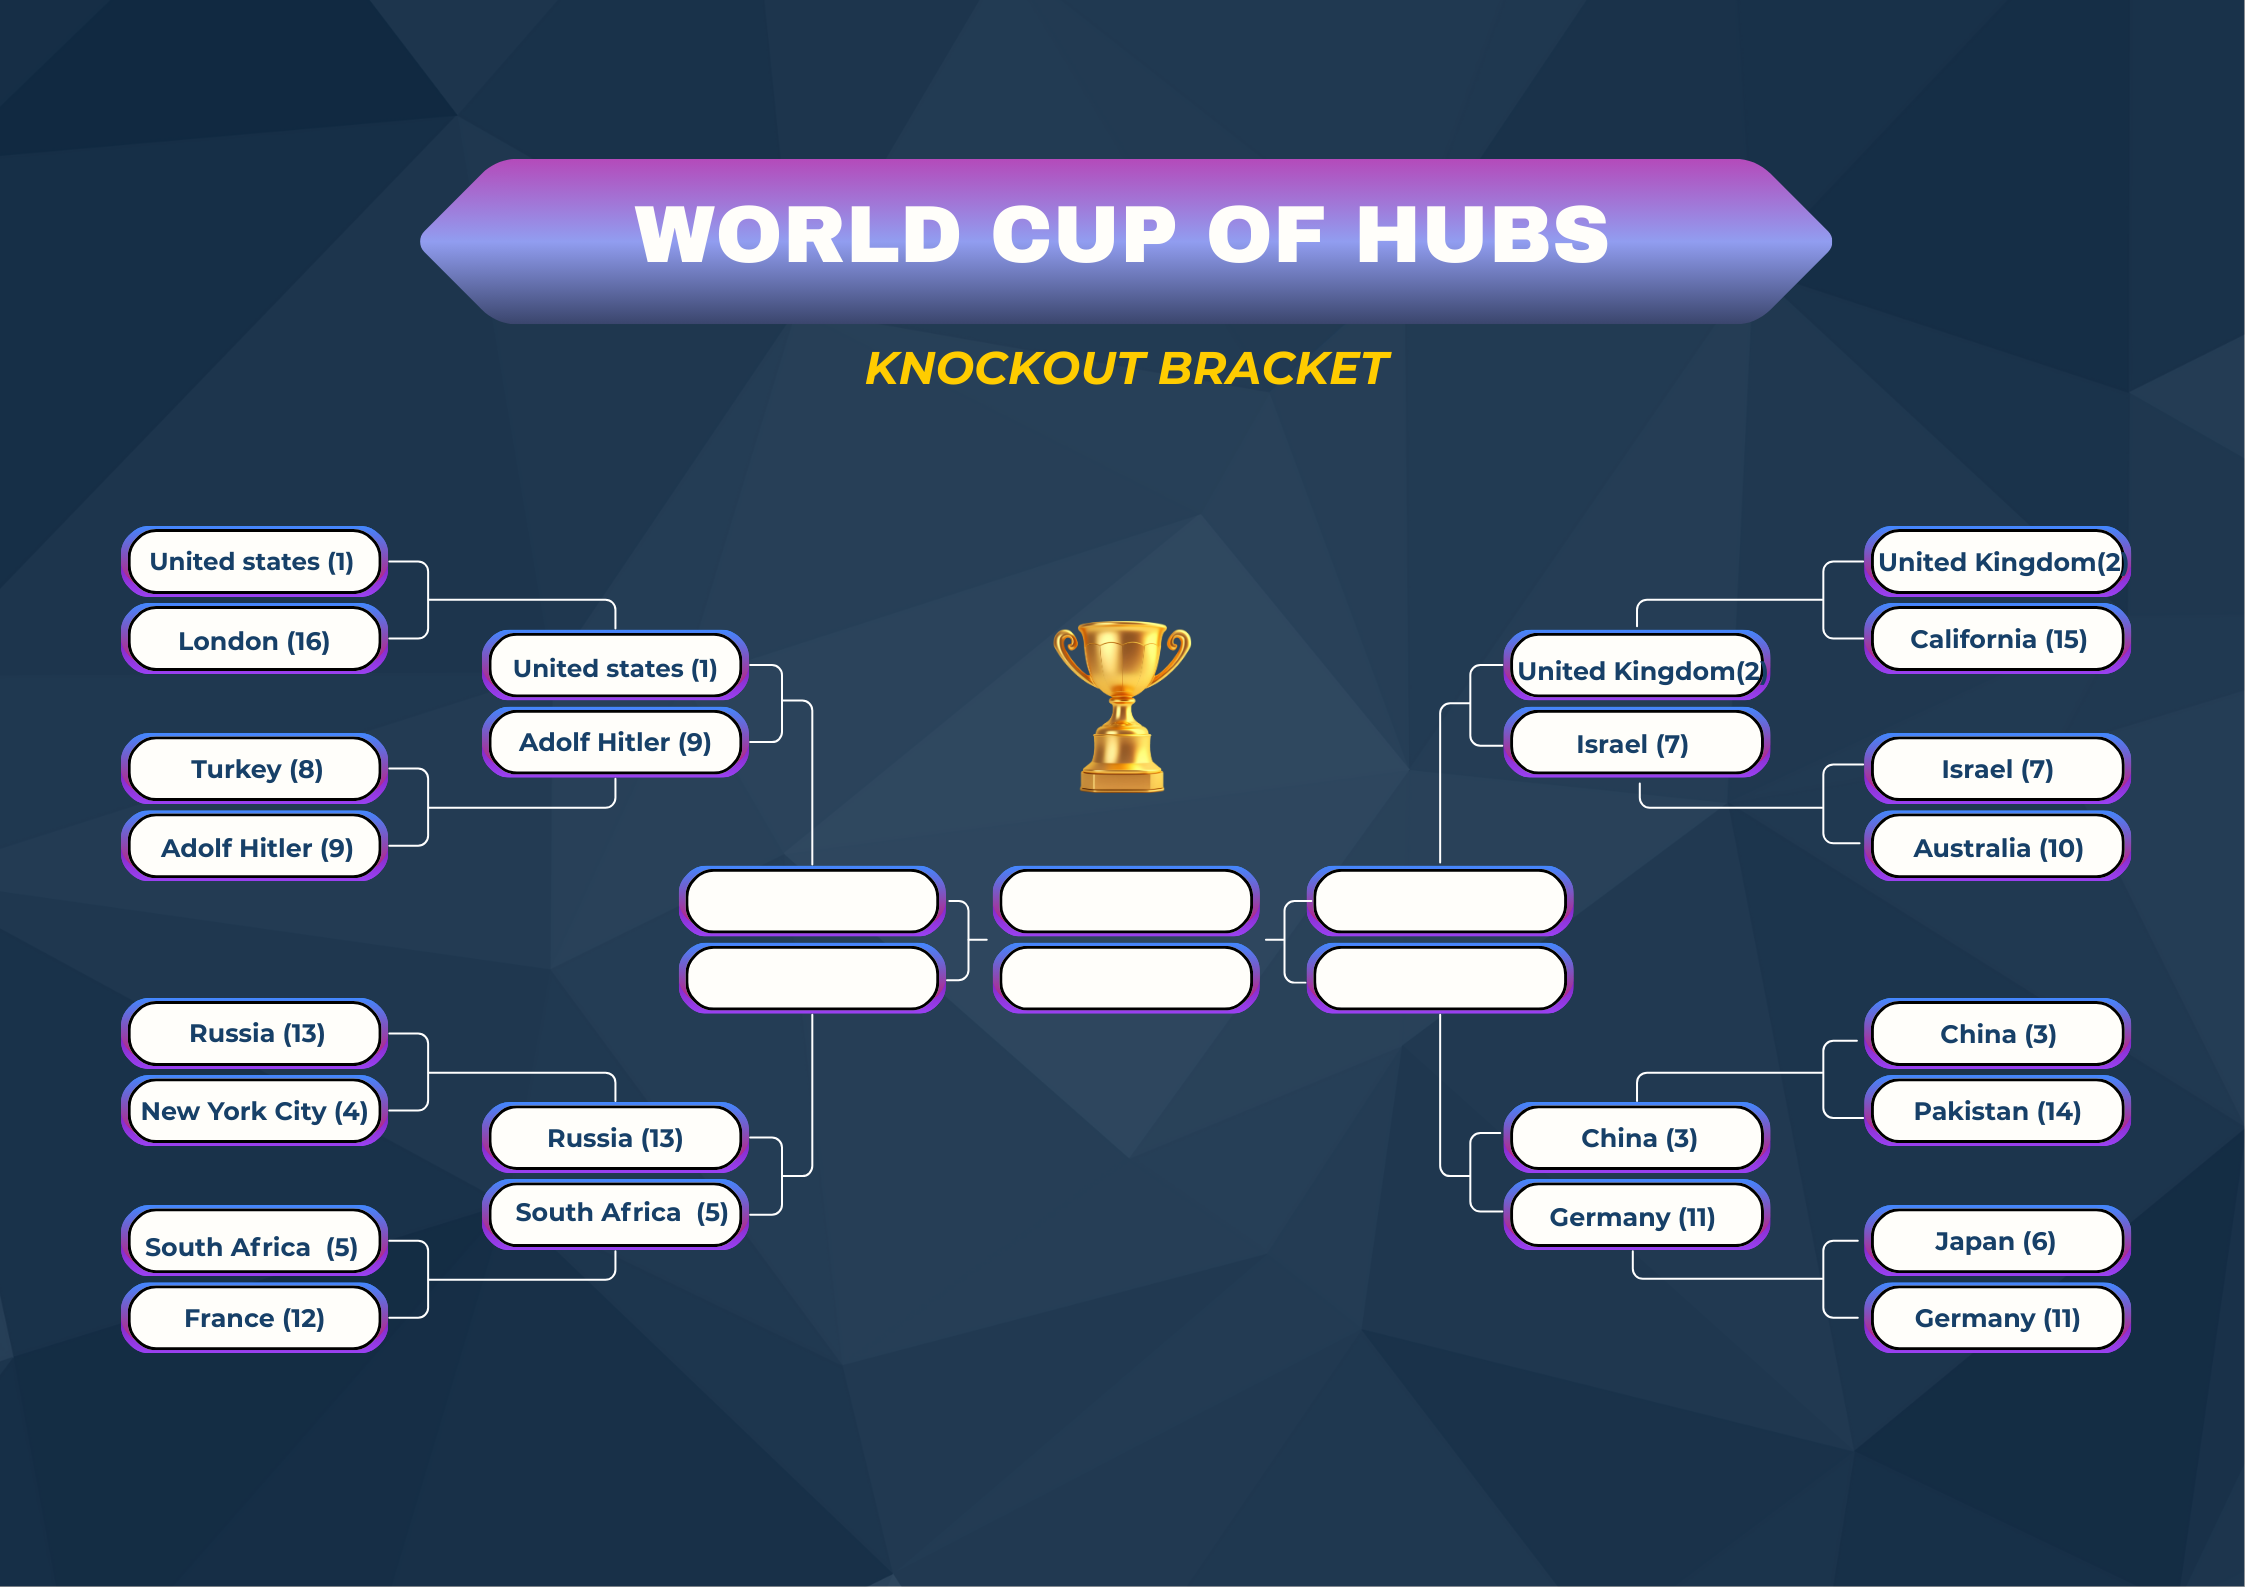
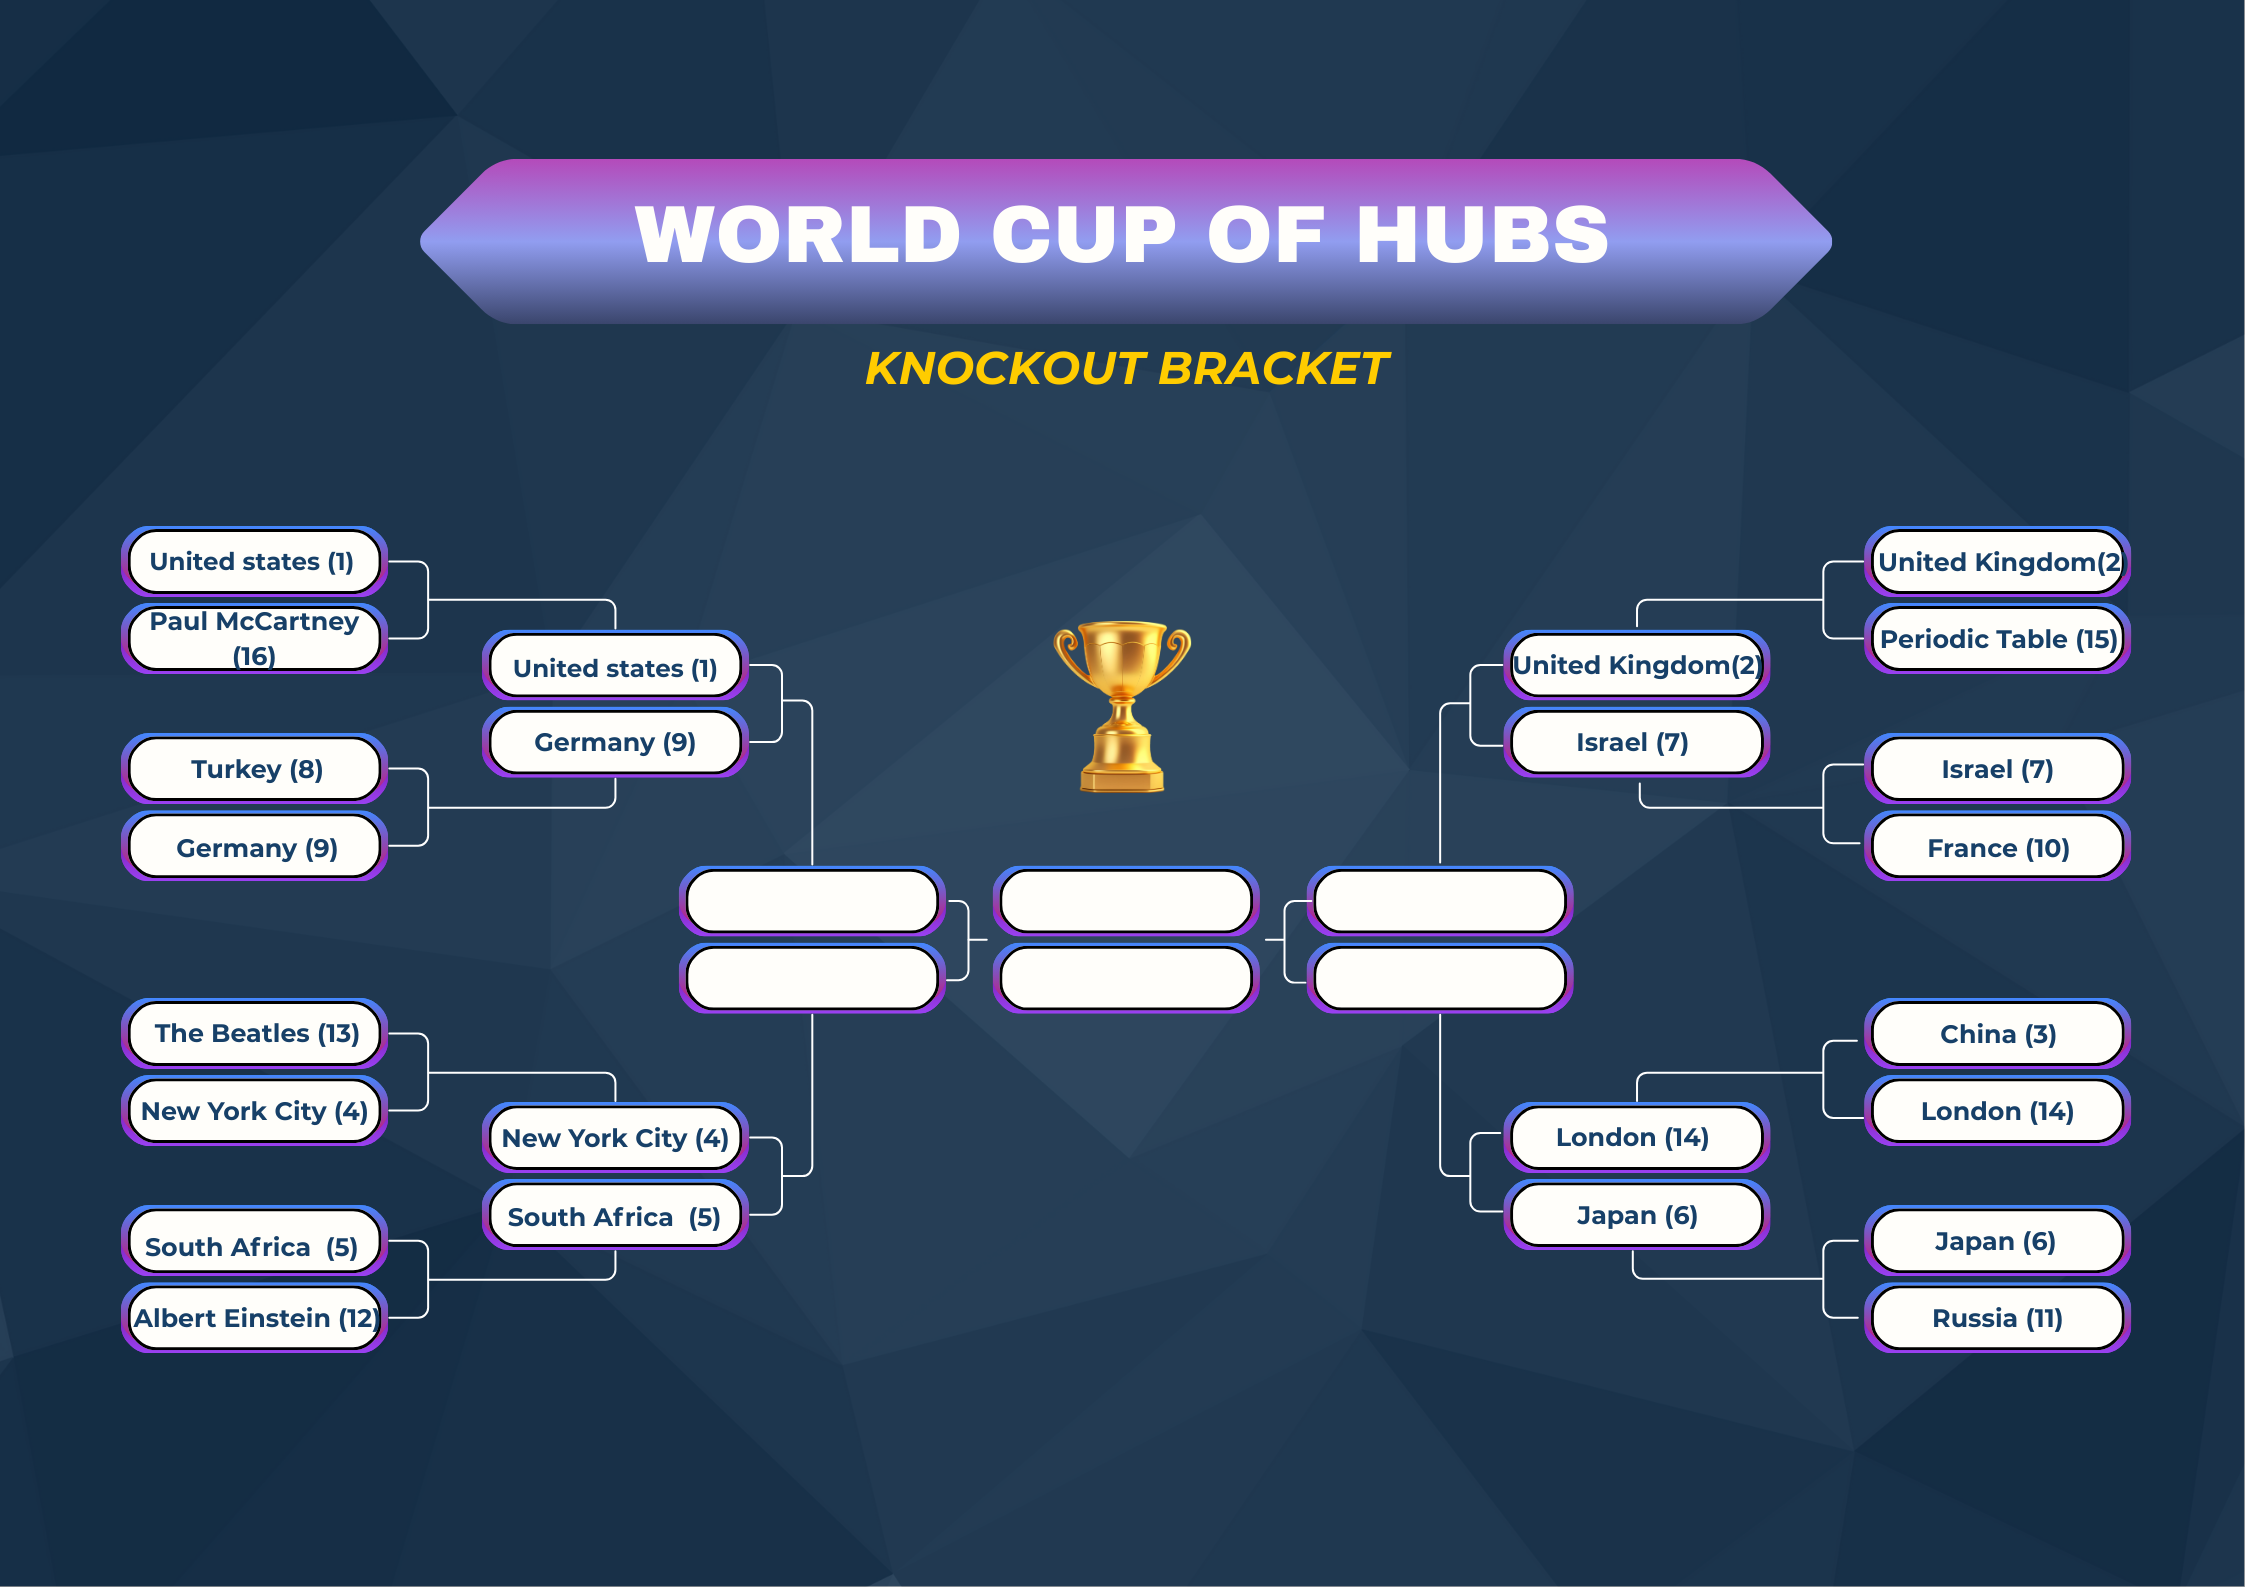
Update des images et du story telling

diff --git a/knockouts.md b/knockouts.md
@@ -15,15 +15,15 @@ In each match, hubs are evaluated head-to-head using the tournament scoring syst
 
 **The bracket starts normal… then London drops a bomb**
 
-Most top seeds do their job early: **United_States (1)** and **United_Kingdom (2)** both advance, and **New York City (4)** also holds. However, something drastic happens to **China (3)**. 
+Big favorites like **United_States (1)** and **United_Kingdom (2)** do their job, and strong hubs such as **New_York_City (4)** and **South_Africa (5)** also move on without drama. At first, the bracket looks calm and predictable.
 
-The Round of 16 has two upsets.
+But then the surprises hit.
 
 The first upset is **Germany (9)** beating **Turkey (8)**.  
-This one is less extreme than China’s loss, but it matters a lot because it plants a dangerous underdog into the top half of the bracket.
+It is not a huge shock on paper, but it matters a lot. Germany is a structured and resilient hub, and this win quietly places a dangerous underdog into the top half of the bracket.
 
-The biggest shock is **London (14)** knocking out **China (3)**.  
-That’s not a small slip, it’s a massive seeding upset (14 over 3), and it instantly breaks the expectation that a top-4 seed cruises into the late rounds.
+The real explosion comes with **London (14)** eliminating **China (3)**.  
+This is a massive upset : a very low seed knocking out one of the tournament’s biggest favorites. A global city outplaying a global power instantly changes the balance of the bracket and sends a clear message: being a huge country does not mean you are safe.
 
 Let's have a closer look to the biggest upset of this stage :
 
@@ -81,7 +81,7 @@ But the metrics tell a very different story.
 
 **South Africa dominates in every field.** 
 
-This is not a “lucky” upset. South Africa’s win is structurally justified by every metric, making this one of those results where the seeding underestimates a genuinely strong competitor.
+This is not a “lucky” upset. South Africa’s win is justified by every metric, making this one of those results where the seeding underestimates a strong competitor.
 
 The scores have decided! Here is how the bracket looks before we head to the semi-finals.
 
@@ -107,6 +107,10 @@ By the semifinals, the bracket shows a classic pattern: the best seeds tend to r
 **United_States (1)** beats **South_Africa (5)**.  
 South Africa had a solid, consistent run, and we saw how impressive its previous match was, but the #1 seed ends the story.
 
+![Match analysis](images/matchup_USA_vs_South_Africa.png)
+
+The domination is clear and USA just smash their opponent even if South Africa showed a good resistence in Efficiency.
+
 Then there’s the other matchup: **United_Kingdom (2) vs Japan (6)**.  
 We saw Japan manage to shut down an underdog, but how will it fair against a truely strong opponent. This by all means should be a close matchup, let's display the statistics!
 
@@ -117,10 +121,10 @@ And these are the most dramatic results we've seen! The **United Kingdom** compl
 Against the United Kingdom, Japan actually performs **slightly better in Efficiency (50.57% vs 49.43%)**. This is a surprising result: the UK is a top-2 seed, yet Japan appears to have a slightly tighter or more optimally connected local structure. This suggests Japan’s internal link density or hub compactness is genuinely strong.
 However, the match is decided elsewhere.
 
-The UK dominates **Popularity (68.16% vs 31.84%)**, an overwhelming gap that Japan cannot compensate for.  
+The UK dominates **Popularity (68.16% vs 31.84%)**, a gap that Japan cannot compensate.  
 On top of that, the UK also leads in **Versatility (55.49% vs 44.51%)**, neutralizing the other dimension that helped Japan reach this round.
 
-Japan hits a structural ceiling. It can outperform strong but less effcient hubs (like NYC), but once faced with a hub that combines good effciency, breadth *and* massive popularity, its path ends.
+Japan hits a structural ceiling. It can outperform strong but less effcient hubs (like NYC), but once faced with a more balanced hub, its path ends.
 
 Let's have a final look at the bracket before moving on to the final :
 

diff --git a/tournament-structure.md b/tournament-structure.md
@@ -33,7 +33,7 @@ It works in several stages, each increasing in selectivity:
 
 - **Repechage (Second Chance)**  
     Hubs ranked **2nd, 3rd, and 4th** in their groups are not eliminated yet.  
-    They enter a *loser bracket* and are given a last chance. Only **8 hubs will survive** from this mini-league and earns their ticket to the **Round of 16**.
+    They enter a *loser group stage* and are given a last chance in groups of 3. Only **8 hubs will survive** from these mini-leagues and earns their ticket to the **Round of 16**.
 
 - **Knockout Phase**  
     From this point, there are **no second chances**.  
@@ -53,7 +53,6 @@ It works in several stages, each increasing in selectivity:
 Hubs do not compete based on a single statistic.
 
 Instead, each competitor is evaluated using a **composite score** that captures three main aspects of navigation quality. 
-At this stage of the tournament, the precise ranking formula is intentionally left open. What matters here is **what is being measured**, not yet **how everything is combined**.
 
 ---
 
@@ -153,6 +152,20 @@ Let's have a look at our groups :
 ## Group Draw
 
 ![Group Stage Draw](images/group_stage.png)
+
+The group stage draw immediately adds tension, not because of results, but because of *who* is placed together.
+
+Group 6 is one of the craziest. **Adolf Hitler** and **Alexander the Great** are in the same group, which feels like a direct matchup between two conquerors from completely different eras. One represents ancient empire-building, the other modern total war. 
+
+Group 1 has a strange and almost ironic tension. **Barack Obama** is placed in the same group as the **United States**. It feels like a leader competing against the country he once represented. In the same group, cultural giants like **The Beatles** and historical empires like the **Ottoman Empire** make it a battle between culture, leadership, and long-term history.
+
+Group 3 feels like a classic European power struggle. **United Kingdom**, **Germany**, and the **Soviet Union** are all together, instantly recalling World War II and the Cold War. Adding figures like **John F. Kennedy** and **Jimmy Carter** reinforces the idea of global politics and superpower tension, making this group feel like a diplomatic battlefield.
+
+Group 4 is built around global conflict and consequences. **China** and **Russia** share the group, two countries linked by borders, alliances, and rivalries. The presence of the **Vietnam War** and the **Chernobyl disaster** makes the group feel heavy, focused on warand crisis.
+
+Group 8 also carries strong historical weight. **Japan** appears alongside **World War II**, a direct reminder of its central role in the conflict, while **London** connects to the European side of the same war. It feels like different fronts of the same global event placed into one group.
+
+Across the draw, a clear trend appears: many groups mix **countries with the people, wars, or ideas that defined them**. Leaders face their own nations, conquerors face conquerors, and modern hubs face ancient power. Before the tournament even starts, the draw already tells stories.
 
 # The Start of the Tournament
 

diff --git a/start-tournament.md b/start-tournament.md
@@ -11,6 +11,11 @@ Below are the final standings of the group stage.
 <!-- Placeholder: Group-stage result tables (normalized scores only) -->
 ![Group Stage Results](images/group_stage_results.png)
 
+After the group stage, a clear picture emerges: this tournament is dominated by **countries**.
+
+This dominance is not only about fame. Countries benefit from being connected to **many different topics at once**: history, politics, culture, economy, science, and geography. Over a group stage, that breadth matters more than momentary popularity.
+
+There are, however, a few results that raise eyebrows. In Group 1, Barack Obama finishes last despite his global recognition, showing that individual leaders can be overshadowed when surrounded by broader historical and cultural hubs. In Group 5, Turkey surprisingly finishes ahead of Google and Elvis Presley. Group 6 is also striking: New York City tops a group packed with extremely strong names, including Adolf Hitler and Wikipedia, a urban hub can be a good Wikipedia hub too.
 
 ---
 
@@ -18,12 +23,27 @@ Below are the final standings of the group stage.
 
 Finishing outside first place does not mean elimination.
 
-Hubs ranked **2nd, 3rd, and 4th** in their respective groups enter the **Repechage** 
+Hubs ranked **2nd, 3rd, and 4th** in their respective groups enter the **Repechage**. 
 
-By the end of the repechage, the remaining contenders will go through to go into the **Round of 16**.
+By the end of the repechage, the remaining contenders will go through to go into the **Round of 16**, but this is the last chance for these contenders to survive in the competition.
 
 <!-- Placeholder: Repechage results table or diagram -->
 ![Repechage](images/repechage.png)
+
+**Second chances change the story**
+
+London, as a global city, qualifies with authority.
+
+The Periodic Table advances as the backbone of science itself, trying to carry and survive as the last scientific topic hub.
+
+The Beatles survive a very tight battle against Adolf Hitler, maybe they would have been the best solution in World War II.
+
+Paul McCartney qualifies on his own, confirming that an artist can stand tall even without the band behind him.
+
+Albert Einstein, reminds everyone that his ideas that changed how we see the universe can be better than nations, he dominates his playoff.
+
+Germany and Russia moves on calmly. Same for France that edges past its rivals, reinforcing the idea that real-world history and state power still matter more than fictional fame.
+
 We hope your contender went through and managed to qualify for the knockout stages !
 
 ---

diff --git a/final.md b/final.md
@@ -7,9 +7,16 @@ title: The Grand Final
 
 After weeks of competition, countless matchups, and relentless eliminations, the World Cup of Hubs reaches its final moment.
 
-Two hubs remain : United_States VS United_Kingdom
+Two hubs remain:  
+[United States](https://en.wikipedia.org/wiki/United_States) vs [United Kingdom](https://en.wikipedia.org/wiki/United_Kingdom)
 
-Both have survived the group stage, the repechage or direct qualification, and three knockout rounds. Each followed a different path, faced different opponents, and proved its strength under pressure.
+Both have survived the group stage and three knockout rounds. Each followed a different path, faced different opponents, and proved its strength under pressure.
+
+On their way to the final, the **United States** had to overcome a mix of artist and strong national challengers, including **Paul McCartney**, **Germany**, and **South Africa**.
+
+The **United Kingdom**, on the other hand, eliminated a combination of scientific conceptand countries, knocking out the **Periodic Table**, **Israel**, and **Japan**.
+
+Before revealing the outcome, we invite you to pause for a moment. Open the two pages, scroll through them, and trust your intuition. Which one *feels* more central, more connected, more influential? Sometimes, the winner can already be guessed by simply looking at the hubs themselves.
 
 ---
 
@@ -53,13 +60,8 @@ The tournament concludes with a final ranking of the top competitors.
 
 **Top 1 : United States**  
 **Top 2 : United Kingdom**  
-**Top 4 : South Africa**
-**Top 4 : Japan**  
-**Top 8 : Israel**  
-**Top 8 : London**
-**Top 8 : Germany**  
-**Top 8 : New York City**  
-
+**Top 4 : South Africa, Japan**
+**Top 8 : Israel, London, Germany, New York City**  
 ---
 
 ## Looking Back at the Tournament : Which betting strategy was the best ?
